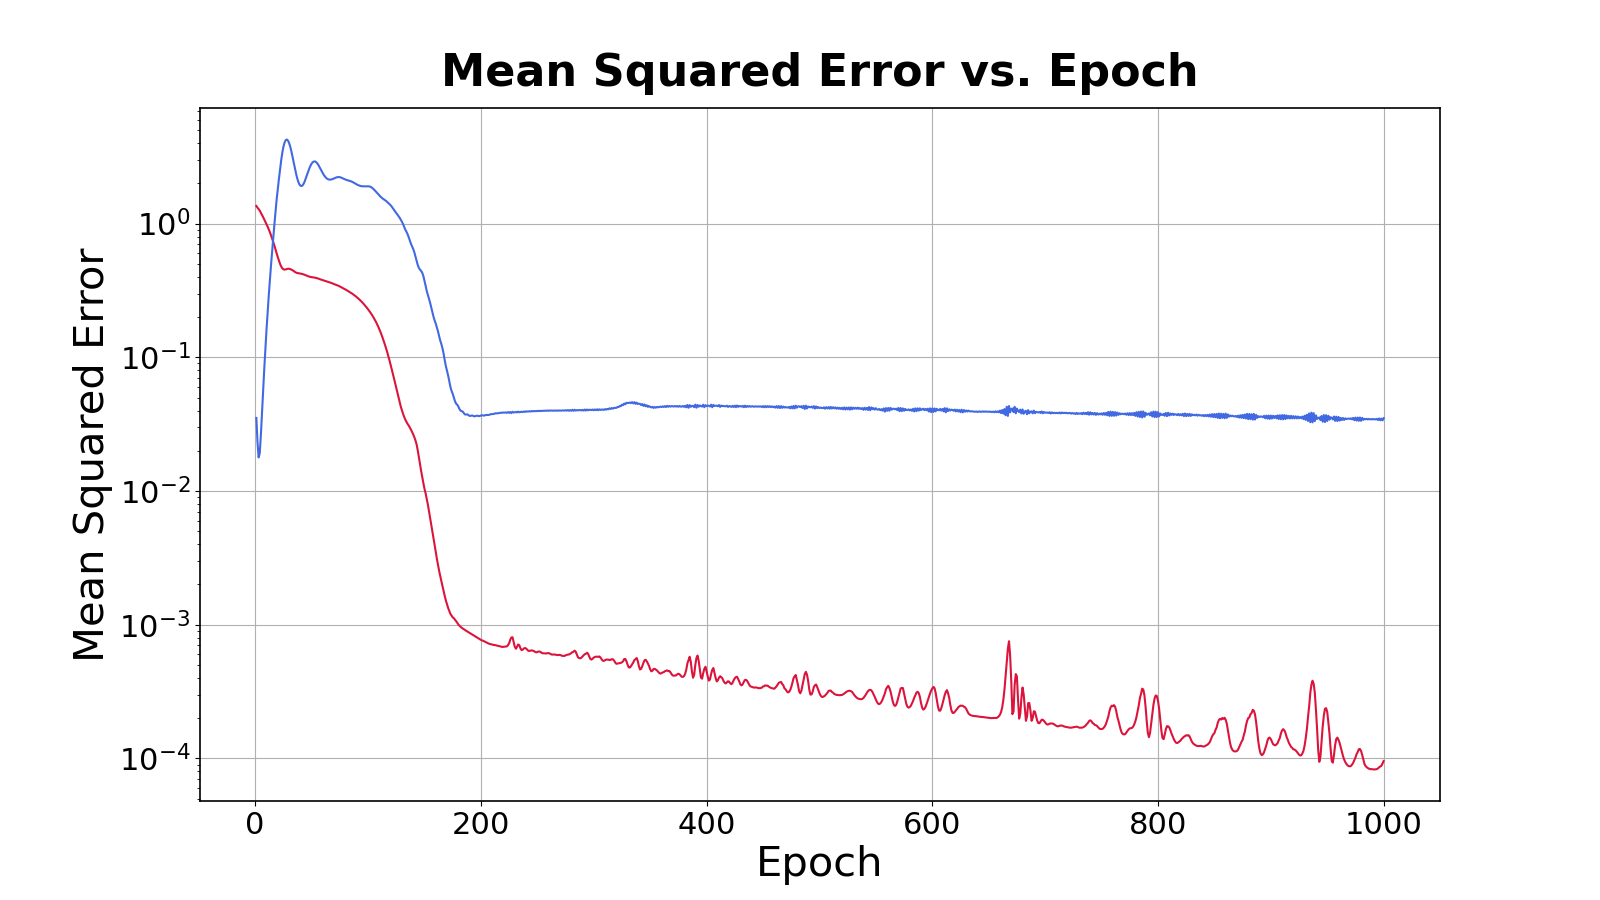
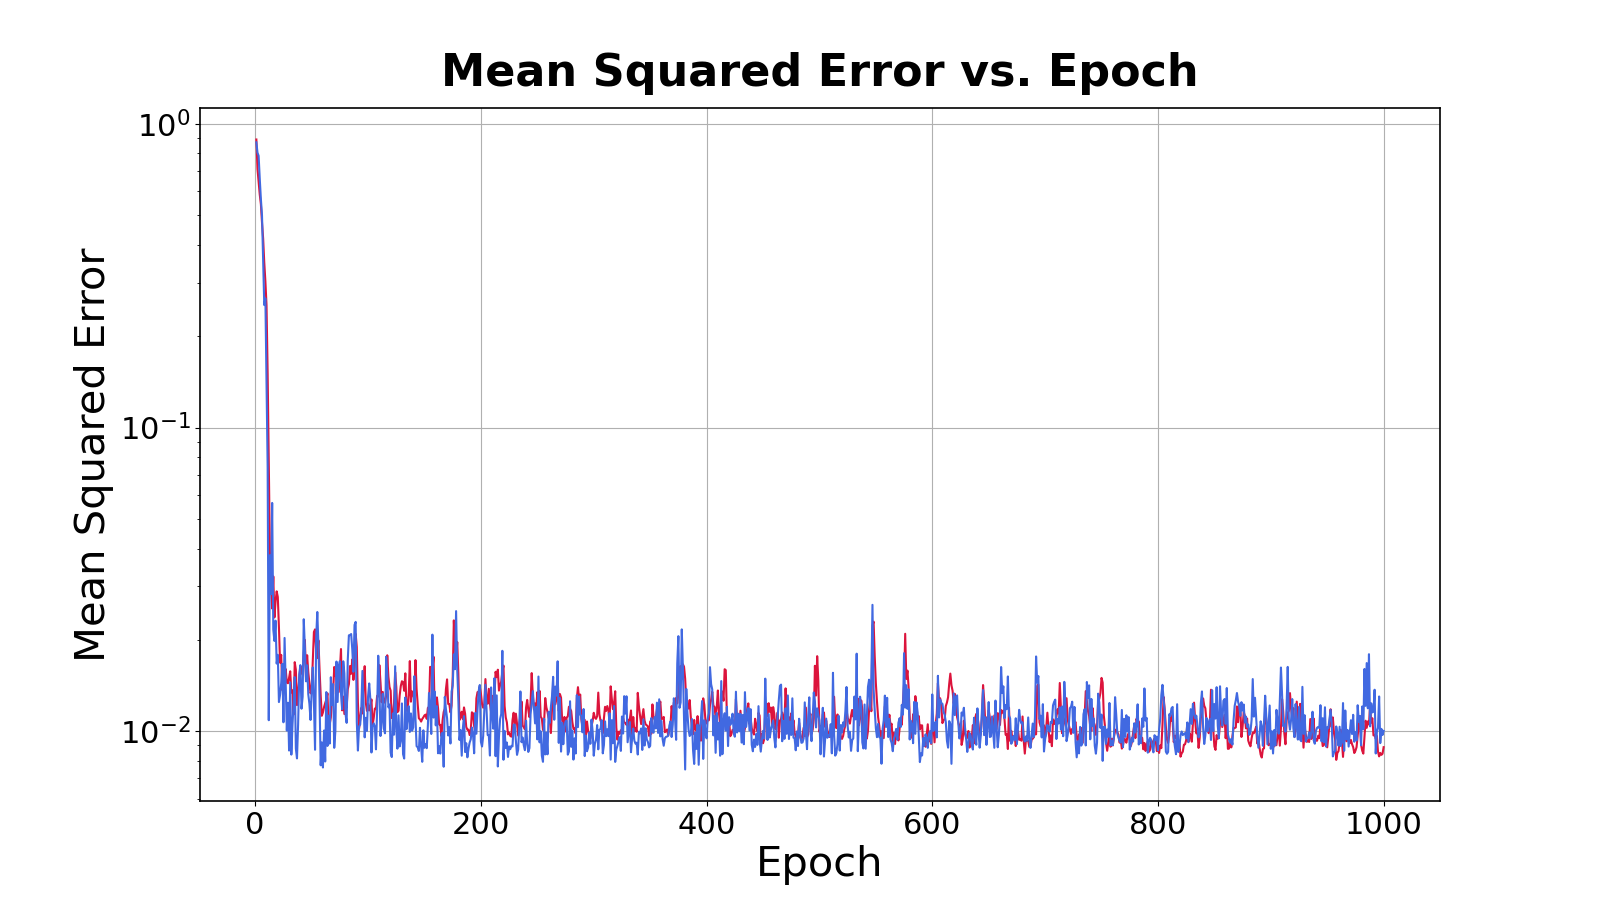
very nice plots <3

diff --git a/regression.py b/regression.py
@@ -5,94 +5,157 @@ import tensorflow as tf
 from keras.models import Sequential
 from keras.layers import Dense
 
+plt.rcParams['pgf.rcfonts'] = False
+plt.rcParams['font.serif'] = []
+plt.rcParams['font.family'] = 'serif'
+plt.rcParams['text.usetex'] = True
+plt.rcParams['axes.formatter.useoffset'] = False
+plt.rcParams['lines.linewidth'] = 1.5
+plt.rcParams['errorbar.capsize'] = 2
 
-plt.rcParams["axes.titlesize"] = 32
-plt.rcParams["axes.labelsize"] = 30
-plt.rcParams["axes.titleweight"] = "bold"
-plt.rcParams["xtick.labelsize"] = 22
-plt.rcParams["ytick.labelsize"] = 22
-plt.rcParams["legend.fontsize"] = 22
-plt.rcParams["axes.linewidth"] = 1.2
-plt.rcParams["scatter.marker"] = "."
-plt.rcParams["axes.grid"] = True
+plt.rcParams['grid.linewidth'] = 0.5
+plt.rcParams['axes.labelsize'] = 14
+plt.rcParams['axes.titlesize'] = 14
+plt.rcParams['xtick.labelsize'] = 12
+plt.rcParams['ytick.labelsize'] = 12
+plt.rcParams['legend.title_fontsize'] = 12
+plt.rcParams['legend.fontsize'] = 12
+plt.rcParams['savefig.dpi'] = 300
+plt.rcParams['savefig.bbox'] = 'tight'
+plt.rcParams['savefig.pad_inches'] = 0.1
+
+#plt.rcParams['savefig.transparent'] = True
+plt.rcParams['figure.figsize'] = (8, 4)
 
 
 
-a = 5
+a = 8
 b = 0.2
 
-n = 30
+n = 200
 
-x_train = np.linspace(-a, a, n)
-noi_train = np.random.normal(0, 0.2, len(x_train))
-y_train = x_train ** 2 * np.exp(-b * x_train ** 2)
+
+x_train = np.random.uniform(-a, a, n)
+noi_train = np.random.normal(0, 0.1, len(x_train))
+y_train = x_train ** 2 * np.exp(-b * x_train ** 2) + noi_train
+
+c = int(0.8 * n)
+d = int(0.9 * n)
+
+x_valid = x_train[c : d]
+x_test = x_train[d :]
+x_train = x_train[: c]
+
+y_valid = y_train[c : d]
+y_test = y_train[d :]
+y_train = y_train[: c]
+
+neurons = 128
 
 
 model = Sequential()
 
-model.add(Dense(32, input_shape = (1, ), activation = "relu"))
-model.add(Dense(32, activation = "relu"))
-model.add(Dense(32, activation = "relu"))
-model.add(Dense(32, activation = "relu"))
-model.add(Dense(32, activation = "relu"))
-model.add(Dense(16, activation = "relu"))
-model.add(Dense(8, activation = "relu"))
+model.add(Dense(neurons, input_shape = (1, ), activation = "relu"))
+model.add(Dense(neurons, activation = "relu"))
+model.add(Dense(neurons, activation = "relu"))
+model.add(Dense(neurons, activation = "relu"))
+model.add(Dense(neurons, activation = "relu"))
+model.add(Dense(neurons, activation = "relu"))
+model.add(Dense(neurons, activation = "relu"))
 model.add(Dense(1))
 
 
-model.summary()
+def schedular(epoch, lr):
+    if epoch < 10: return lr
+    else: return lr * tf.math.exp(-0.001)
+
+lr_schedule = tf.keras.callbacks.LearningRateScheduler(schedular)
+
+early_stopping = tf.keras.callbacks.EarlyStopping(monitor = "val_loss", patience = 200, restore_best_weights = True, verbose = 1)
+
+
 model.compile(optimizer = "adam", loss = "mse")
 
-history = model.fit(x_train, y_train, epochs = 1000, verbose = 2, validation_split = 0.1)
+history1 = model.fit(x_train, y_train, validation_data = (x_valid, y_valid), callbacks = [lr_schedule, early_stopping], epochs = 1000, verbose = 2)
 
-mse = history.history['loss']
-v_loss = history.history["val_loss"]
-epochs = range(1, len(mse) + 1)
+model1 = Sequential()
 
+model1.add(Dense(neurons, input_shape = (1, ), activation = "relu"))
+model1.add(Dense(neurons, activation = "relu"))
+model1.add(Dense(neurons, activation = "relu"))
+model1.add(Dense(neurons, activation = "relu"))
+model1.add(Dense(neurons, activation = "relu"))
+model1.add(Dense(neurons, activation = "relu"))
+model1.add(Dense(neurons, activation = "relu"))
+model1.add(Dense(neurons, activation = "relu"))
+model1.add(Dense(neurons, activation = "relu"))
+model1.add(Dense(1))
 
+model1.compile(optimizer = "adam", loss = "mse")
+history2 = model1.fit(x_train, y_train, validation_data = (x_valid, y_valid), epochs = 1000, verbose = 2)
 
-x_test = np.linspace(-a, a, n)
-noi = np.random.normal(0, 0.2, len(x_test))
-y_test = x_test ** 2 * np.exp(-b * x_test ** 2)
+histories = [history1, history2]
+names = ["A", "B"]
+models = [model, model1]
 
+for i in range(len(histories)):
 
-ypre = model.predict(x_test)
+    history = histories[i]
+    c = names[i]
+    model = models[i]
 
-# Plot the MSE versus epoch
-fig, ax = plt.subplots(figsize = (16, 9))
-
-ax.plot(epochs, mse, color = "crimson")
-ax.plot(epochs, v_loss, color = "royalblue")
-ax.set_xlabel('Epoch')
-ax.set_ylabel('Mean Squared Error')
-ax.set_title('Mean Squared Error vs. Epoch', y = 1.02)
-ax.grid(True)
-
-ax.set_yscale("log")
-
-plt.savefig("./loss.png")
-
-
-# Plot of the results
-
-fig, ax = plt.subplots(figsize = (16, 9))
-ax.scatter(x_test, y_test, color = "royalblue", label = "Test Data", s = 50)
-ax.scatter(x_train, y_train, color = "crimson", label = "Train Data", s = 50)
-
-ax.plot(x_test, ypre, color = "black", lw = 3, label = "Prediction")
-
-mi = min(y_test)
-ma = max(y_test)
-
-d = ma - mi
-
-ax.set_ylim(mi - d / 10, ma + d / 10)
+    mse = history.history['loss']
+    v_loss = history.history["val_loss"]
+    epochs = range(1, len(mse) + 1)
 
 
-ax.set_ylabel("y")
-ax.set_xlabel("x")
-ax.set_title("Comparison - Test Data vs. ML Prediction", y = 1.02)
 
-ax.legend()
+    print(model.evaluate(x_test, y_test))
 
-plt.savefig("./results.png")
+
+
+    x = np.linspace(-a, a, 1000)
+    ypre = model.predict(x)
+
+    # Plot the MSE versus epoch
+    fig, ax = plt.subplots()
+
+    ax.plot(epochs, mse, color = "crimson", label = "Training loss")
+    ax.plot(epochs, v_loss, color = "royalblue", label = "Validation loss")
+    ax.set_xlabel('Epoch')
+    ax.set_ylabel('Mean Squared Error')
+    ax.legend()
+    ax.set_title(c, y = 1.02)
+
+
+    ax.set_yscale("log")
+
+    ax.grid()
+
+    plt.savefig("./loss_{}.png".format(c))
+
+
+    # Plot of the results
+
+    fig, ax = plt.subplots()
+
+    ax.scatter(x_train, y_train, color = "crimson", label = "Train Data")
+    ax.scatter(x_valid, y_valid, color = "royalblue", label = "Validation Data")
+
+    ax.plot(x, ypre, color = "black", label = "Prediction", zorder = 15)
+
+    ax.plot(x, x ** 2 * np.exp(-b * x ** 2), color = "black", ls = "--", label = "True $f(x)$", zorder = 10)
+
+
+
+    # ax.set_ylim(mi - d / 10, ma + d / 10)
+
+
+    ax.set_ylabel("$y$")
+    ax.set_xlabel("$x$")
+    ax.set_title(c, y = 1.02)
+
+    ax.legend()
+    ax.grid()
+
+    plt.savefig("./results_{}.png".format(c))
